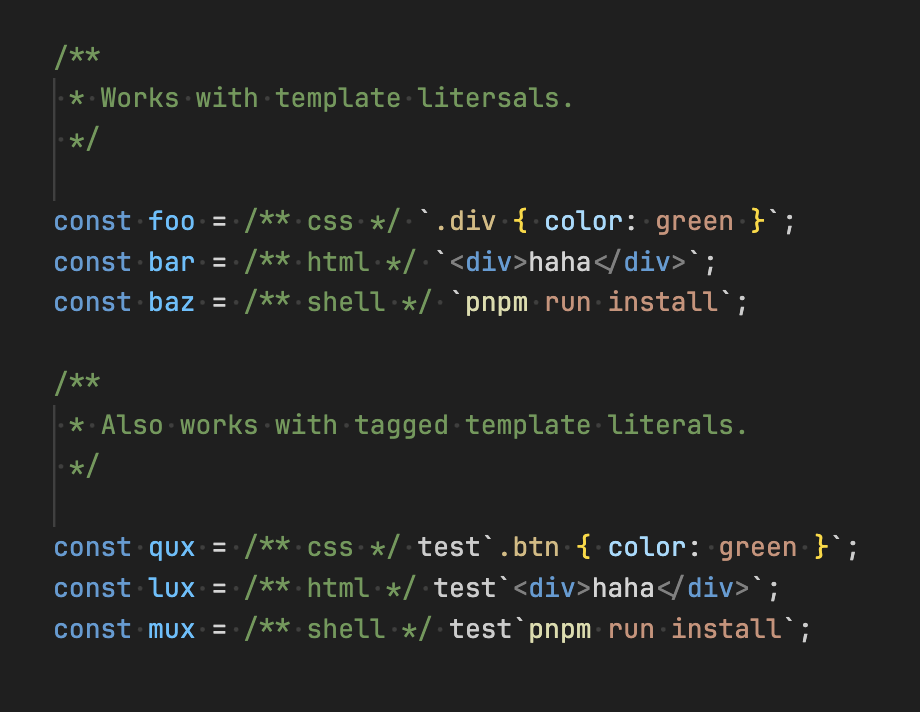
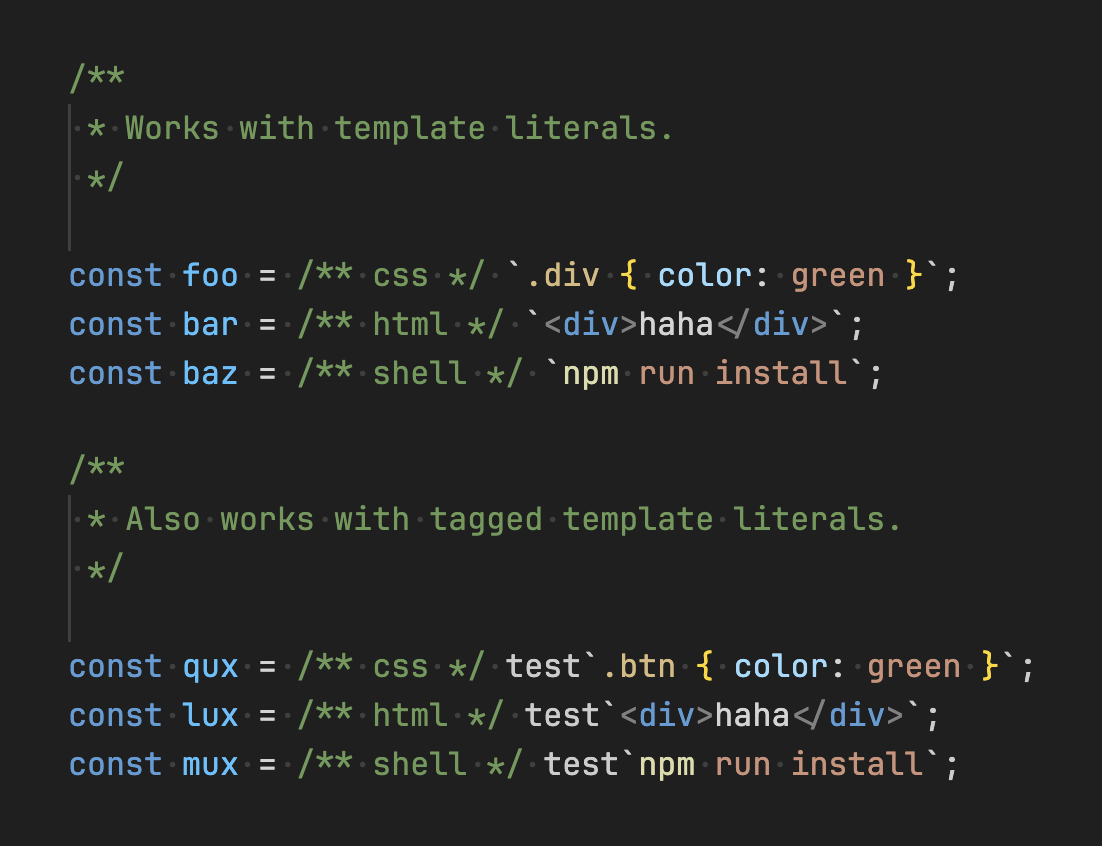
[documentation] fix typo in README and update example image; [version] bump extension version to 2026.3.8

diff --git a/README.md b/README.md
@@ -6,7 +6,7 @@ Syntax highlight template literals in JavaScript and TypeScript by placing a com
 
 ```ts
 /**
- * Works with template litersals.
+ * Works with template literals.
  */
 
 const foo = /** css */ `.div { color: green }`;
@@ -21,6 +21,8 @@ const qux = /** css */ test`.btn { color: green }`;
 const lux = /** html */ test`<div>haha</div>`;
 const mux = /** shell */ test`npm run install`;
 ```
+
+## Result
 
 ![Example syntax highlighting](./example.png)
 
